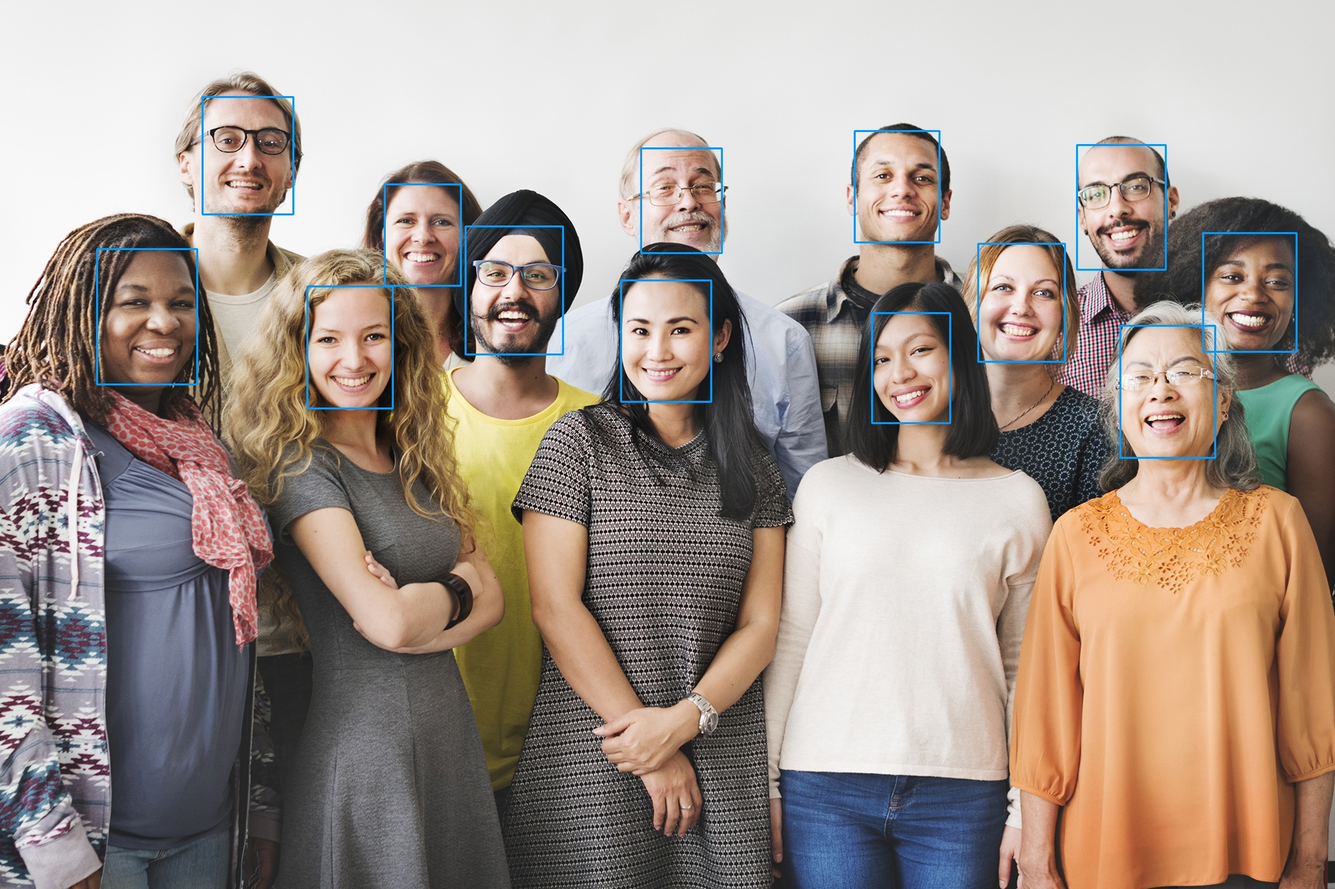
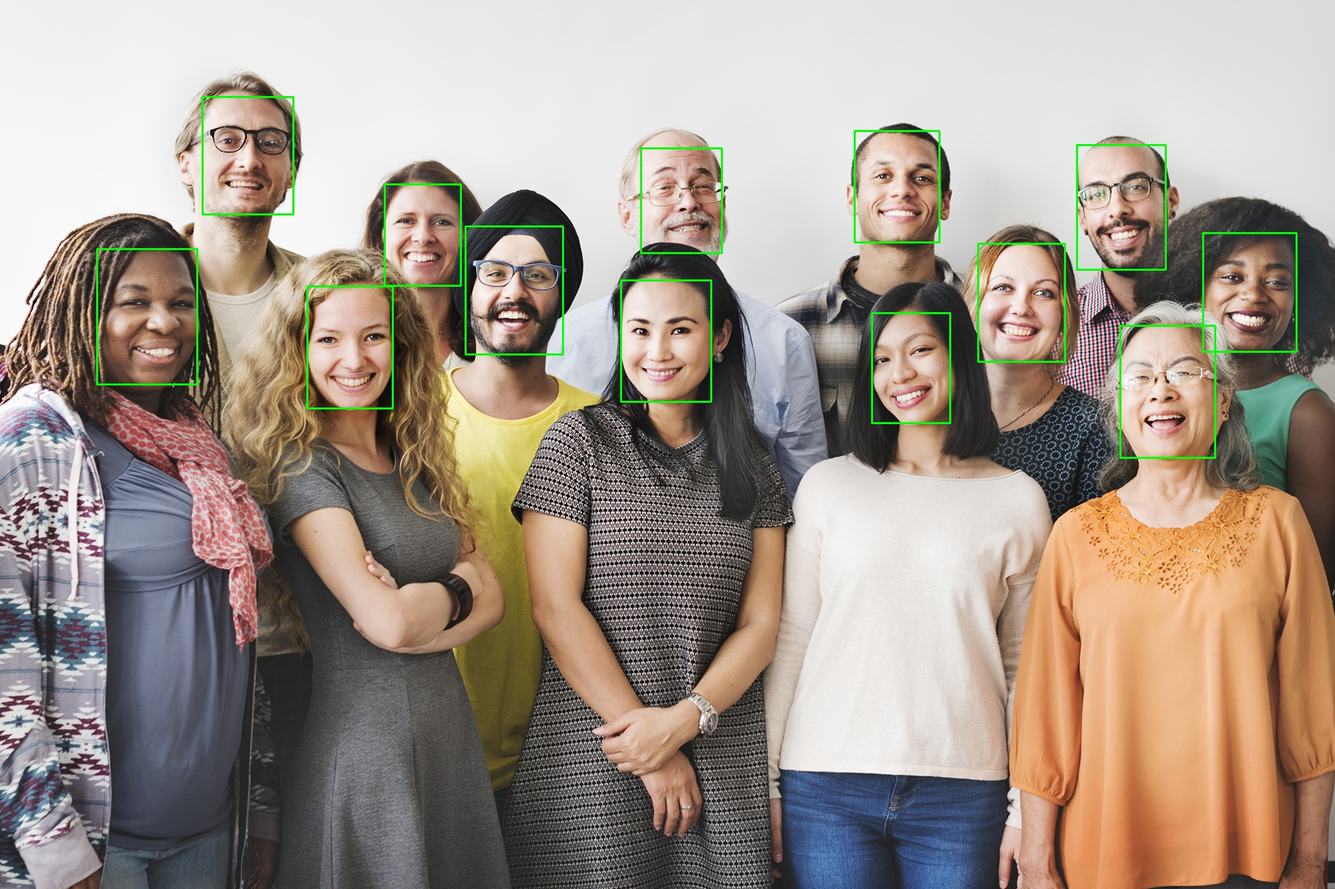
Implemented Haar Cascade and Retina algorithms

diff --git a/algorithms/mtcnn.py b/algorithms/mtcnn.py
@@ -9,6 +9,7 @@ from algorithms.testresults import TestResults
 import cv2
 import config
 import numpy as np
+import utils
 
 
 def getResult(location) :
@@ -20,33 +21,21 @@ def getResult(location) :
     img = cv2.cvtColor(cv2.imread(location), cv2.COLOR_BGR2RGB)
     # use mtcnn to detect faces and store in a list
     data = detector.detect_faces(img)
+    faces = []
+    confidences = []
+    for face in data :
+        faces.append(face['box'])
+        confidences.append(face['confidence'])
+
     # set algorithm-dependent test values
-    result.set_confidence(round(data[0]['confidence'], 5))
+    # result.set_confidence(round(data[0]['confidence'], 5))
+    result.set_confidence(confidences)
     result.set_isSuccess(len(data) > 0)
     # save the marked image to TestResults object
     with open(location, "rb") as fp:
-        marked_img = drawFaces(fp.read(), data)
+        marked_img = utils.drawFaces(fp.read(), faces, result)
         result.set_img(marked_img)
     # return TestResult object to instant mode 
     return result
 
-
-# draws detected face boxes on image
-# if other algorithms use a similar method, move to utils
-def drawFaces(img_data, results) :
-    print(type(img_data))
-    im = cv2.imdecode(np.frombuffer(img_data, np.uint8), cv2.IMREAD_COLOR)
-    image = cv2.cvtColor(im, cv2.COLOR_BGR2RGB)
-    
-    for result in results:
-        bounding_box = result['box']
-        keypoints = result['keypoints']
-        cv2.rectangle(image,
-                        (bounding_box[0], bounding_box[1]),
-                        (bounding_box[0] + bounding_box[2], bounding_box[1] + bounding_box[3]),
-                        (0, 155, 255),
-                        2)
-    image = cv2.cvtColor(image, cv2.COLOR_RGB2BGR)
-    is_success, im_buf_arr = cv2.imencode(".jpg", image) # TODO: Add support for other extentions (.png)
-    return im_buf_arr
 

diff --git a/modes/offline.py b/modes/offline.py
@@ -12,17 +12,27 @@ import config
 import utils
 import os
 from algorithms import mtcnn
+from algorithms import haar_cascade
+from algorithms import retina
 
 def runOffline(args):
-    print('runOffline')
+    print('Running Offline Mode')
+    print('...')
     folder = config.inputPath
-    algorithm = 'mtcnn'
+    algorithm = args[2]
 
     delPreviousResults()
 
     for filename in os.listdir(folder) :
         tic = utils.currentTime()
-        result = mtcnn.getResult(folder + '/' + filename)
+        
+        if algorithm == 'mtcnn' :
+            result = mtcnn.getResult(folder + '/' + filename)
+        elif algorithm == 'haar' :
+            result = haar_cascade.getResult(folder + '/' + filename)
+        elif algorithm == 'retina' :
+            result = retina.getResult(folder + '/' + filename)
+            
         toc = utils.currentTime()
         result.set_resultSaveLoc(config.offlineOutputPath)
         result.set_algorithm(algorithm)
@@ -35,6 +45,9 @@ def runOffline(args):
 
         result.set_img(f'{filename}')
         utils.appendJSON(config.offlineDataLocation, result)
+
+    print('Marked images saved to ' + config.offlineOutputPath)
+    print('JSON test results data saved to ' + config.offlineDataLocation)
 
 def delPreviousResults() :
     f = open(config.offlineDataLocation, 'w+')

diff --git a/modes/live.py b/modes/live.py
@@ -12,8 +12,7 @@ import numpy as np
 import config
 
 
-def runLive(args) :
-    
+def liveMTCNN() :
     detector = MTCNN()
     cap = cv2.VideoCapture()
     cap.open(0, cv2.CAP_DSHOW)
@@ -38,5 +37,42 @@ def runLive(args) :
 
     cap.release()
     cv2.destroyAllWindows()
+
+def liveHaar() :
+    
+    face_cascade = cv2.CascadeClassifier(cv2.data.haarcascades + "haarcascade_frontalface_default.xml")
+    cap = cv2.VideoCapture()
+    cap.open(0, cv2.CAP_DSHOW)
+
+    while(True) :
+        ret, frame = cap.read()
+
+        frame = cv2.resize(frame, (600, 400))
+        faces = face_cascade.detectMultiScale(frame)
+
+        for (x,y,w,h) in faces:
+            frame = cv2.rectangle(frame, (x, y), (x + w, y + h),
+                (0, 255, 0), 2)
+
+        cv2.imshow('frame', frame)
+        if cv2.waitKey(1) & 0xFF == ord('q'):
+            break
+
+    cap.release()
+    cv2.destroyAllWindows()
+
+def liveRetina() :
+    print('retina is currently too slow to support live mode')
+
+def runLive(args) :
+    algorithm = args[2]
+    if algorithm == 'mtcnn' :
+        liveMTCNN()
+    elif algorithm == 'haar' :
+        liveHaar()
+    elif algorithm == 'retina' :
+        liveRetina()
+    
+    
     
 

diff --git a/algorithms/retina.py b/algorithms/retina.py
@@ -1,0 +1,35 @@
+from algorithms.testresults import TestResults
+from retinaface import RetinaFace
+import cv2
+import config
+import numpy as np
+import utils
+
+
+def getResult(location) :
+    result = TestResults()
+    img = cv2.cvtColor(cv2.imread(location), cv2.COLOR_BGR2RGB)
+    
+    resp = RetinaFace.detect_faces(location)
+
+    faces = []
+    confidences = []
+    for face in resp :
+        confidences.append(resp[face]['score'])
+        single_face = []
+        for num in resp[face]['facial_area'] :
+            single_face.append(num.item())
+            
+        single_face[2] = single_face[2] - single_face[0]
+        single_face[3] = single_face[3] - single_face[1]
+        faces.append(single_face)
+        
+    result.set_confidence(confidences)
+    result.set_isSuccess('na')
+    with open(location, "rb") as fp:
+        marked_img = utils.drawFaces(fp.read(), faces, result)
+        result.set_img(marked_img) 
+
+    return result
+
+

diff --git a/modes/instant.py b/modes/instant.py
@@ -11,8 +11,11 @@ import config
 import utils
 from PIL import Image
 from algorithms import mtcnn
+from algorithms import haar_cascade
+from algorithms import retina
 
 def runInstant(args):
+    print('run instant called')
     location = f"{config.inputPath}/{args[2]}"
     algorithm = args[3]
     # start timer
@@ -20,6 +23,12 @@ def runInstant(args):
 
     if algorithm == 'mtcnn' :
         result = mtcnn.getResult(location)
+    elif algorithm == 'haar' :
+        result = haar_cascade.getResult(location)
+    elif algorithm == 'retina' :
+        result = retina.getResult(location)
+        
+        
     else :
         print('Algorithm not supported')
         quit()
@@ -42,5 +51,6 @@ def runInstant(args):
     
     utils.appendJSON(config.instantDataLocation, result)
     # Open image in new window
+    print('opening image')
     im = Image.open(config.instantImageOutput)
     im.show()

diff --git a/utils.py b/utils.py
@@ -2,6 +2,9 @@ import time
 from datetime import datetime
 import json
 import config
+import cv2
+import numpy as np
+
 
 # Helper functions
 
@@ -24,3 +27,17 @@ def appendJSON(filePath, jsonData) :
     with open(filePath, 'w') as file:
         json.dump(data, file)
 
+
+
+def drawFaces(img_data, faces, testResult) :
+    im = cv2.imdecode(np.frombuffer(img_data, np.uint8), cv2.IMREAD_COLOR)
+    image = cv2.cvtColor(im, cv2.COLOR_BGR2RGB)
+    
+    for (x,y,w,h) in faces:
+        image = cv2.rectangle(image, (x, y), (x + w, y + h),
+            (0, 255, 0), 2)
+
+    image = cv2.cvtColor(image, cv2.COLOR_RGB2BGR)
+    is_success, im_buf_arr = cv2.imencode(".jpg", image) # TODO: Add support for other extentions (.png)
+    testResult.set_faces(faces)
+    return im_buf_arr

diff --git a/algorithms/testresults.py b/algorithms/testresults.py
@@ -18,10 +18,11 @@ class TestResults:
         self.algorithm = ""
         self.dateTime = ""
         self.runTime = float
-        self.confidence = float
         self.isSuccess = bool
-
-    
+        self.faces = []
+        self.confidence = []
+        
+        
     def toJSON(self) :
         # Encodes to JSON string using dictionary
         return json.dumps(self, default=lambda o: o.__dict__) 
@@ -50,6 +51,9 @@ class TestResults:
     def get_isSuccess(self) :
         return self.isSuccess
 
+    def get_faces(self) :
+        return self.faces
+
 
     # Setters 
 
@@ -74,5 +78,7 @@ class TestResults:
     def set_isSuccess(self, isSuccess) :
         self.isSuccess = isSuccess
 
+    def set_faces(self, faces) :
+        self.faces = faces
 
     

diff --git a/algorithms/haar_cascade.py b/algorithms/haar_cascade.py
@@ -1,0 +1,21 @@
+from algorithms.testresults import TestResults
+import cv2
+import config
+import numpy as np
+import utils
+
+def getResult(location) :
+    result = TestResults()
+    img = cv2.cvtColor(cv2.imread(location), cv2.COLOR_BGR2RGB)
+    face_cascade = cv2.CascadeClassifier(cv2.data.haarcascades + "haarcascade_frontalface_default.xml")
+    faces = face_cascade.detectMultiScale(img)
+    face_data = faces.tolist()
+    
+    result.set_confidence('na')
+    result.set_isSuccess('na')
+    with open(location, "rb") as fp:
+        marked_img = utils.drawFaces(fp.read(), face_data, result)
+        result.set_img(marked_img) 
+    return result
+
+
